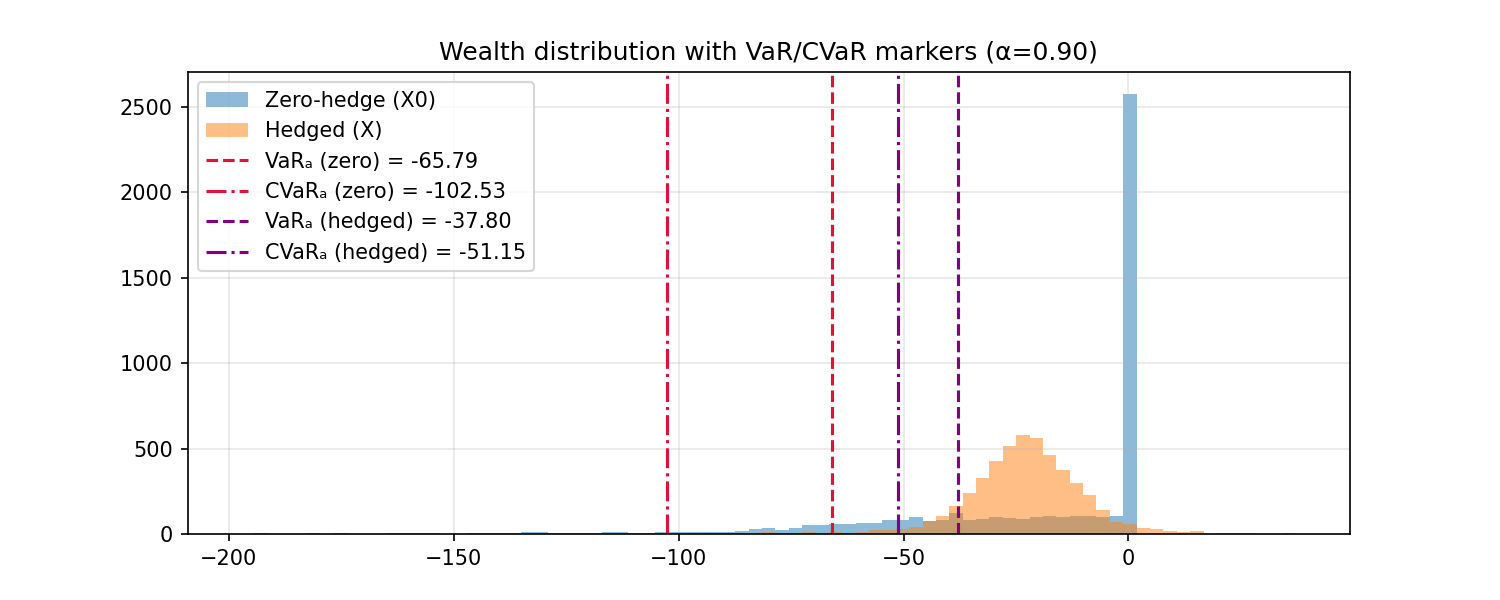
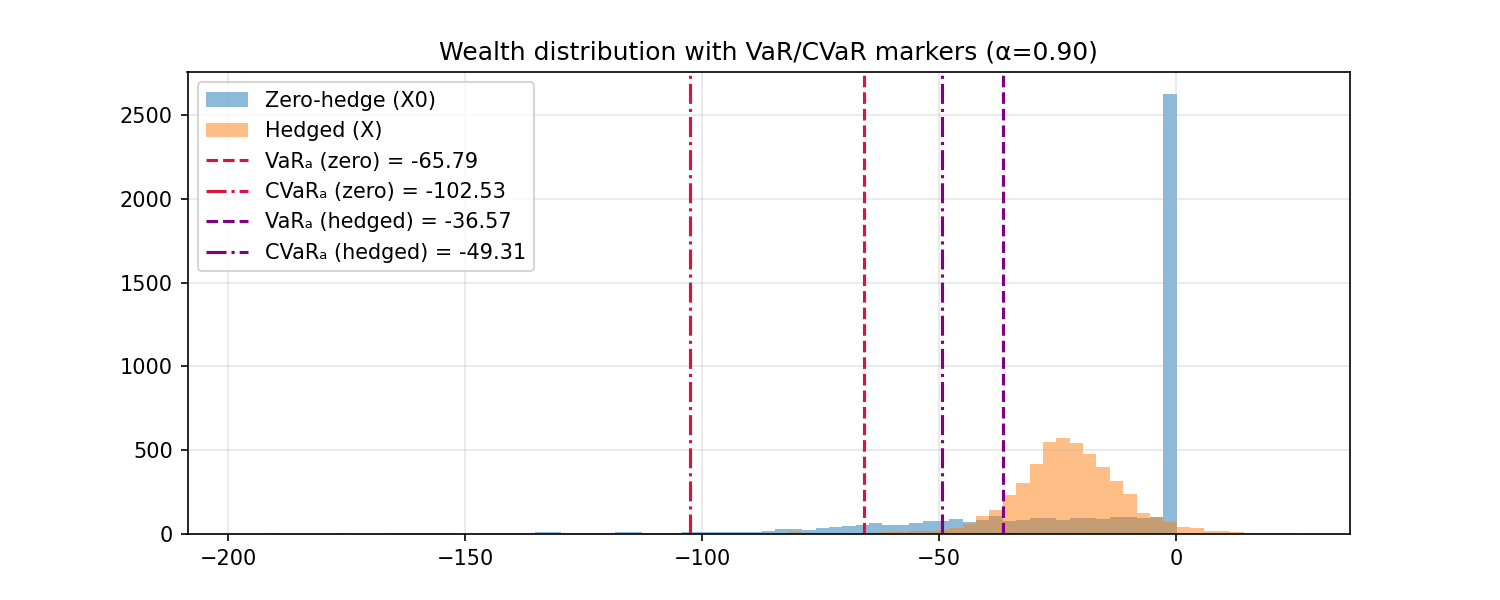
corrected figs in docs/figs to @90

diff --git a/README.md b/README.md
@@ -18,8 +18,8 @@
 
 Numbers latest run with $α=0.90$ (CVaR@90), proportional costs, and early stopping:
 
-- **CVaR@90**: **-59.40** (hedged) vs **-131.09** (zero-hedge)  
-- **VaR@90**: **-42.26** (hedged) vs **-84.54** (zero-hedge)  
+- **CVaR@90**: **-49.31** (hedged) vs **-102.53** (zero-hedge)  
+- **VaR@90**: **-36.57** (hedged) vs **-65.79** (zero-hedge)  
 - **Variance reduction** of $X$: **≈ 82.6%**  
 - **MAE reduction** of $X$: **- 8.5%** (we optimize tails, not MAE, consequently MAE suffers)  
 - **Mean trading cost** per path: **≈ 0.2**  
